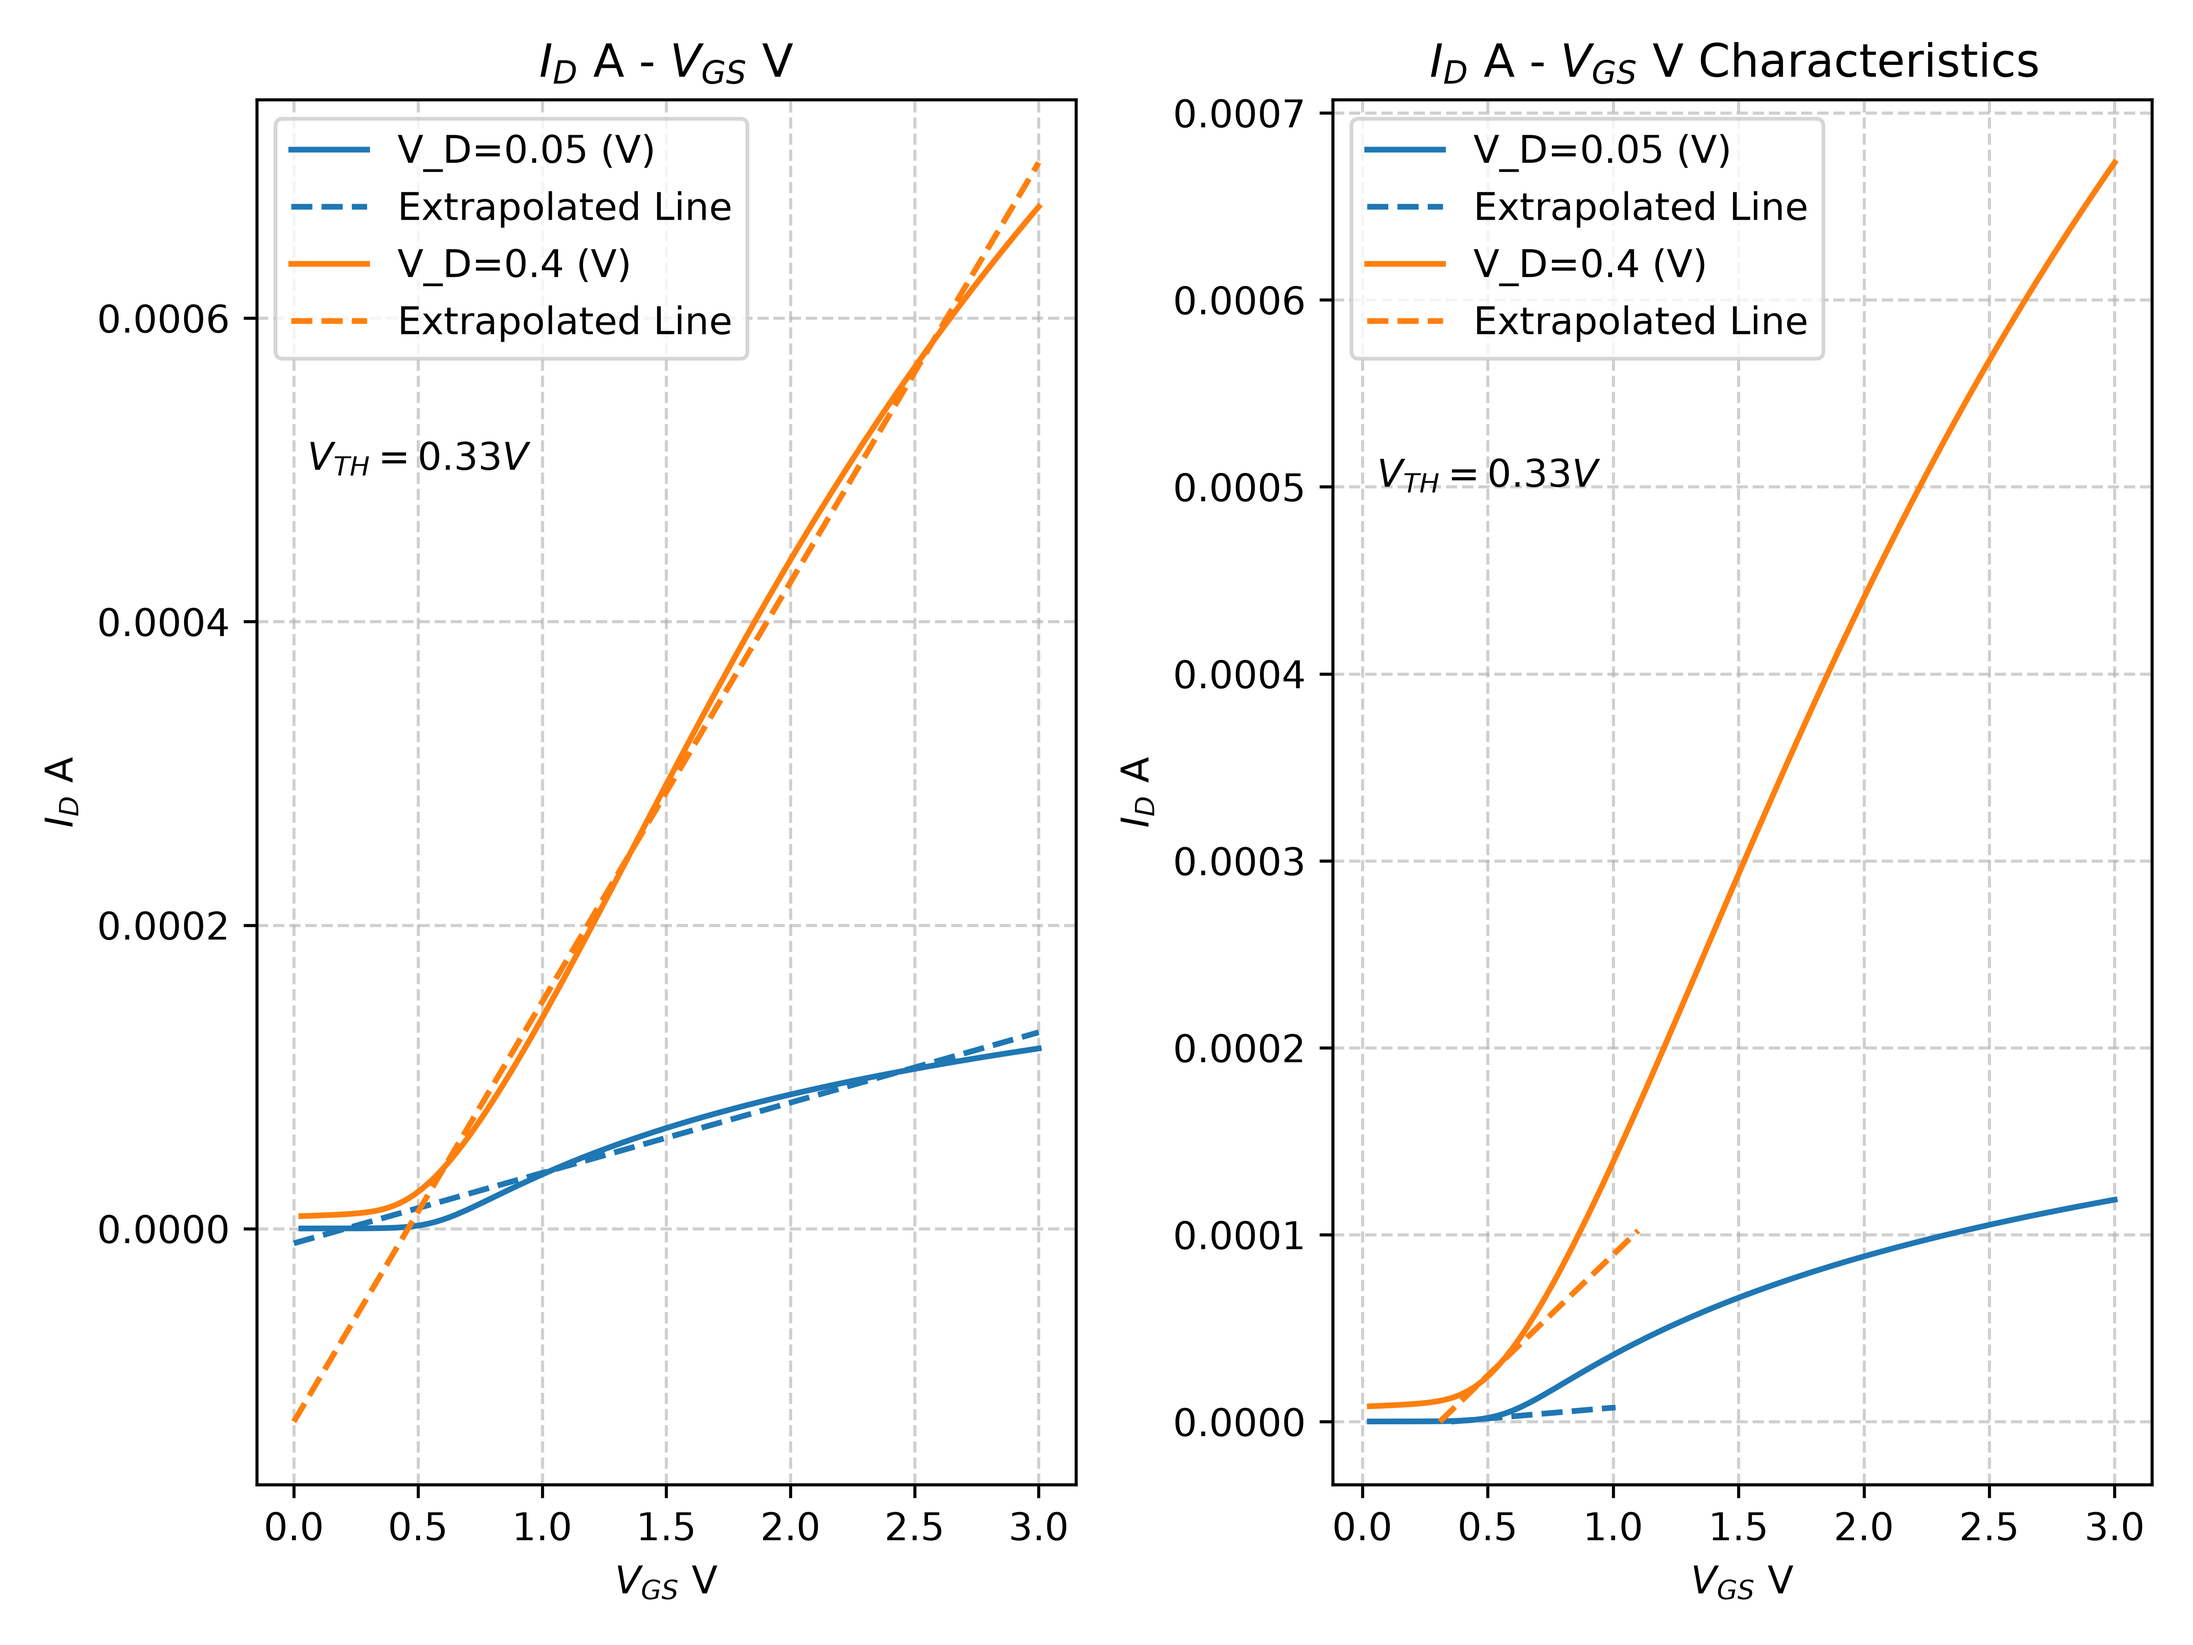
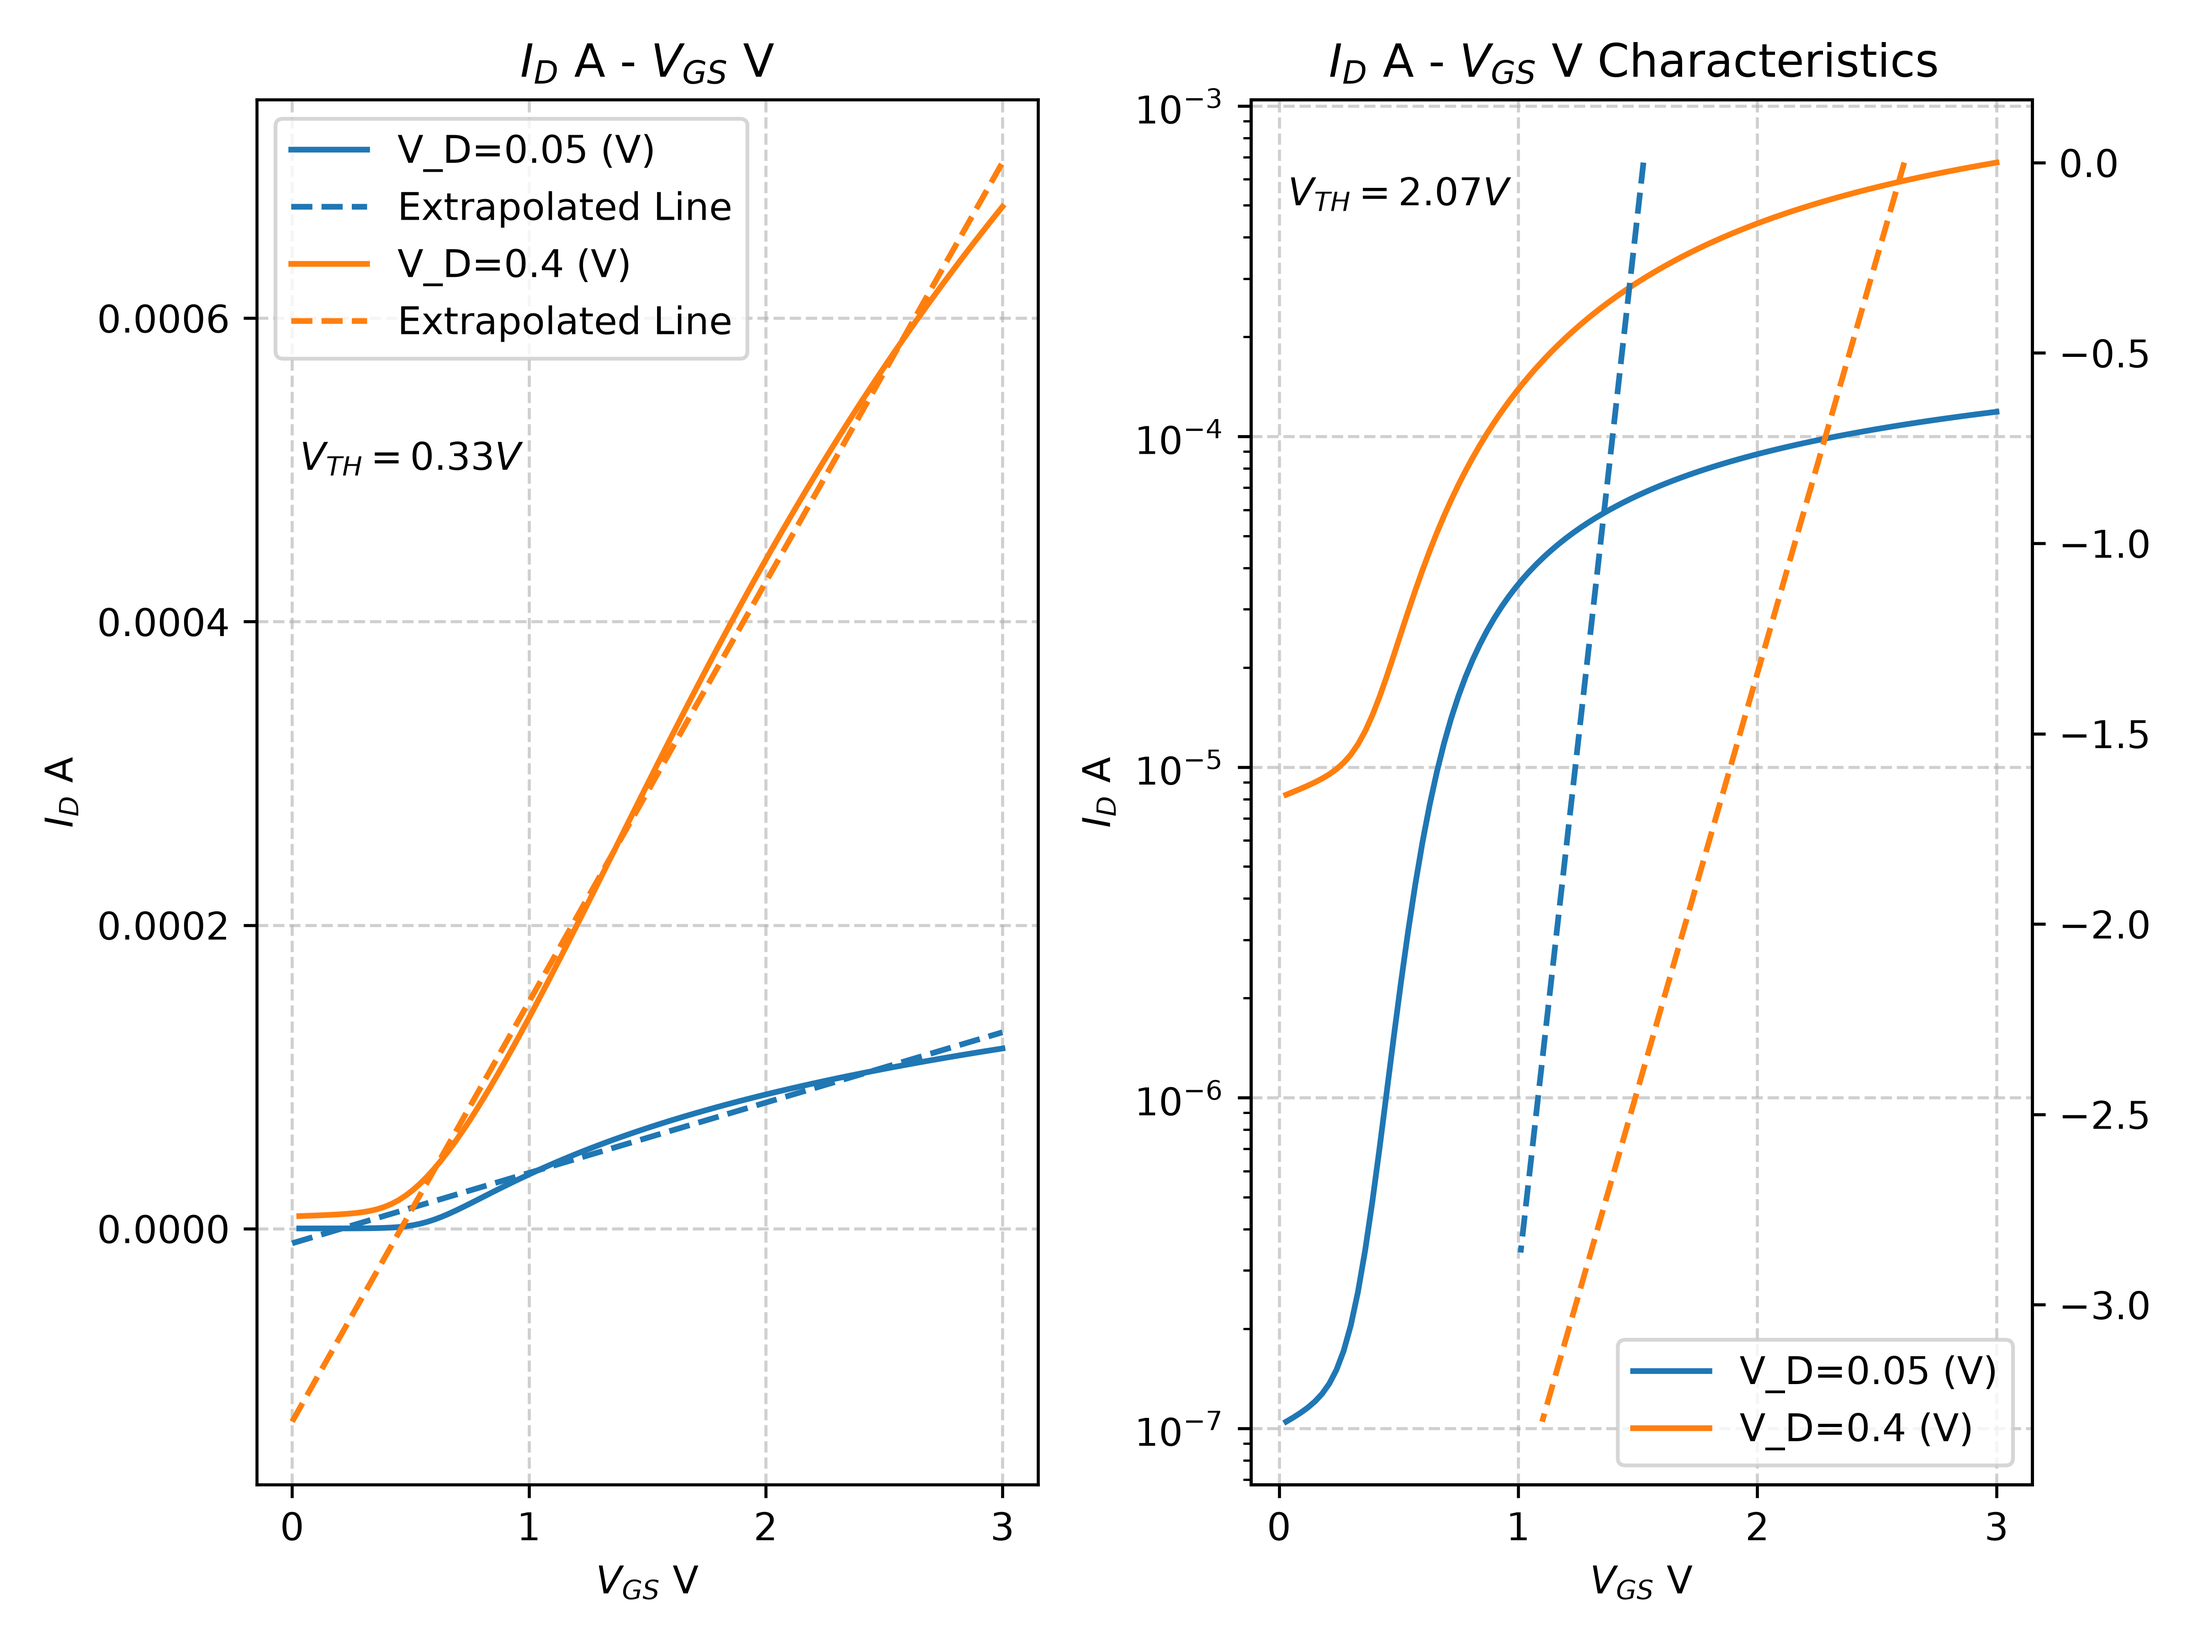
some python part done

diff --git a/q5.py b/q5.py
@@ -38,8 +38,8 @@ ax[0].set_title(f'$I_{{D}}$ A - $V_{{GS}}$ V')
 ax[0].grid(True, linestyle='--', alpha=0.6)
 ax[0].legend()
 
-
-
+## subthrehold loagrathmic graph
+ax2 = ax[1].twinx()  # Create a secondary y-axis for the logarithmic plot
 v_t = np.array([])
 for i,v in enumerate(vds):
     df_v = df.sort_values(by=(v+" X"))
@@ -50,7 +50,7 @@ for i,v in enumerate(vds):
     highslope_gm_beg = np.where(gm > 0.9 * gm.max())[0][0] 
     highslope_gm_end = np.where(gm > 0.9 * gm.max())[0][-1] # index of the last zero crossing
     # print(highslope_gm)
-    coef = np.polyfit(df_v[v+ " X"][highslope_gm_beg:highslope_gm_end],df_v[v+" Y"][highslope_gm_beg:highslope_gm_end], 1)
+    coef = np.polyfit(df_v[v+ " X"][highslope_gm_beg:highslope_gm_end],y_log[highslope_gm_beg:highslope_gm_end], 1)
     # print(coef)
     v_t_t = -coef[1]/coef[0] # threshold voltage from linear extrapolation
    
@@ -61,16 +61,15 @@ for i,v in enumerate(vds):
     x_extended = np.linspace(v_t_t, df_v[v+" X"][highslope_gm_end]+0.5, 100)
     y_extrapolated = polynomial(x_extended)
     
-   
-    ax[1].plot(x_extended, y_extrapolated, linestyle='--', label='Extrapolated Line', color=y[0].get_color())
+    
+    ax2.plot(x_extended, y_extrapolated, linestyle='--', label='Extrapolated Line', color=y[0].get_color())
 
-
+ax[1].set_yscale('log')  # Set the y-axis to logarithmic scale
 print(round(v_t.mean(), 2) ,' V is the average subthreshold voltage')
 ax[1].text(0.5, 0.0005, f'$V_{{TH}} = {round(v_t.mean(), 2)} V$', fontsize=10, color='black', ha='center')
 ax[1].set_xlabel(f'$V_{{GS}}$ V')
 ax[1].set_ylabel(f'$I_{{D}}$ A')
 ax[1].set_title(f'$I_{{D}}$ A - $V_{{GS}}$ V Characteristics ')
-# ax[1].set_yscale('log')
 ax[1].grid(True, linestyle='--', alpha=0.6)
 ax[1].legend()
 plt.tight_layout()

diff --git a/readme.md b/readme.md
@@ -1,0 +1,31 @@
+# TCAD Exercise - 25ec01021 25ec01048
+## E1 Structure 
+
+<b>Doping Concentration :</b>
+
+![](q1_bnd.png)
+
+<b>Vertex Count = 4896</b> \
+Vertex count is no of node points formed from the meshing 
+
+![](q1_vertex.png)
+
+## E2 Specification
+<b>Channel length : 36 nm</b>
+
+![](q2_channel_length.png)
+
+<b>Peak channel doping  : 2.7e18 (negative indicating p type) </b> 
+
+Doping along the cutline through middle 
+![](q2_peak_doping.png)
+
+Doping along the cutline at x = 8nm 
+![](q2_8nm_doping_concentration.png)
+
+## E3 Equillibrium Analysis
+
+![](q3.png)
+
+## E4 
+
